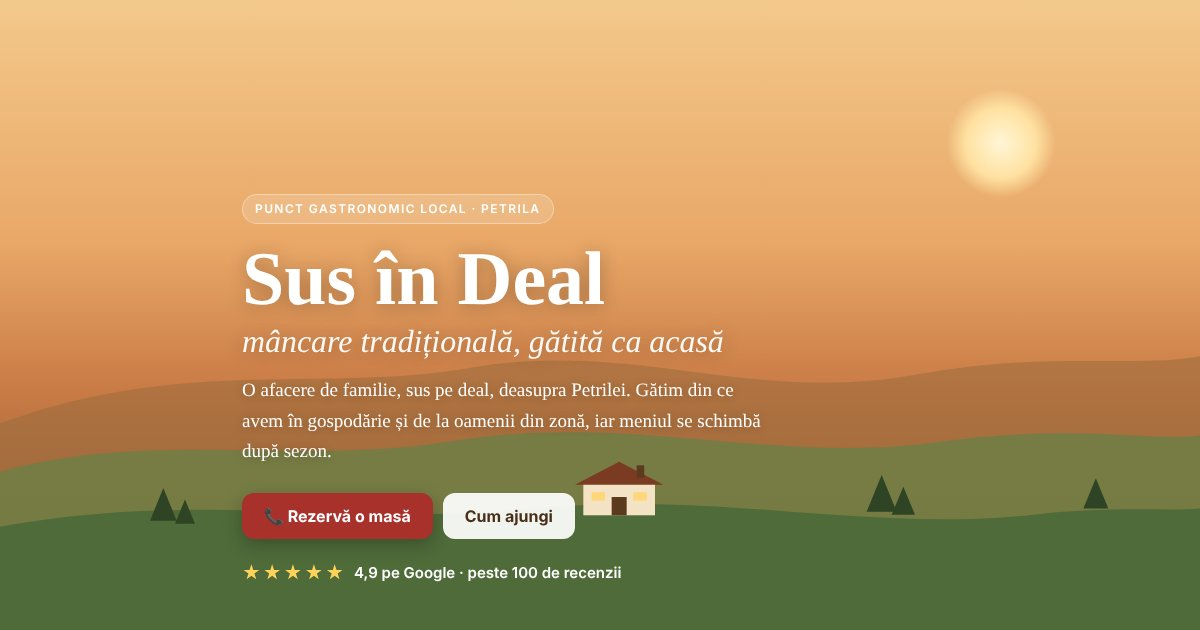
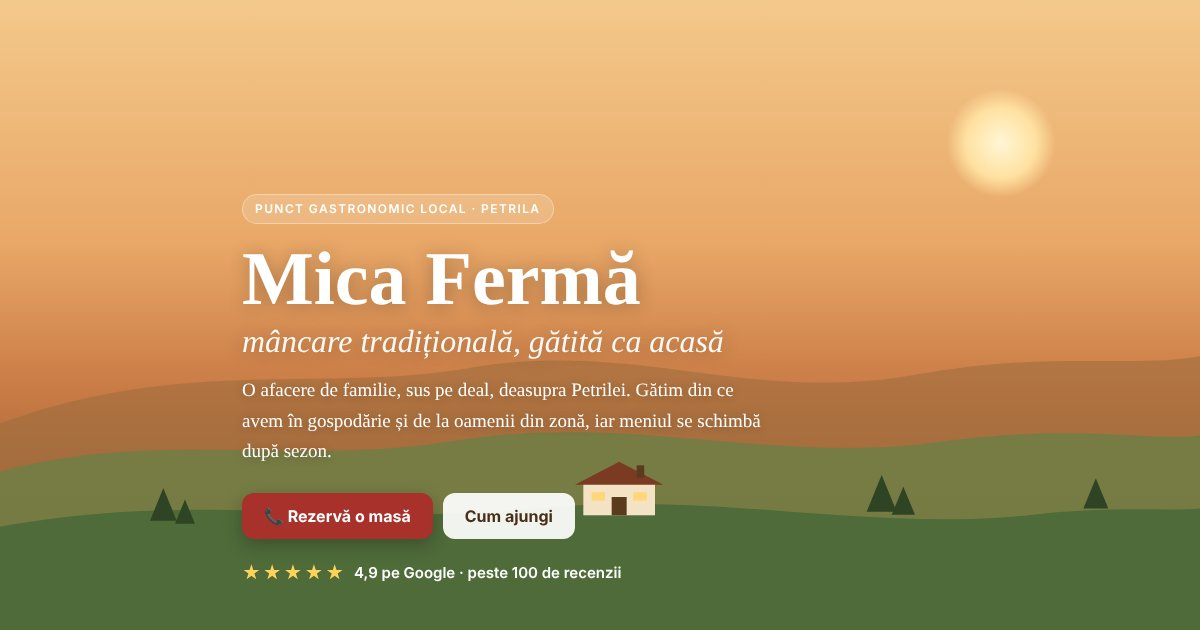
Rename farm mockup to Mica Ferma, add demo-mica-ferma path
Claude-Session: https://claude.ai/code/session_01LxuUGVkvJMbAL8TALUmA1L

Changed region(s): [[0.185, 0.3921, 0.555, 0.4825]]

diff --git a/demo-mica-ferma/index.html b/demo-mica-ferma/index.html
@@ -1,0 +1,275 @@
+<!DOCTYPE html>
+<html lang="ro">
+<head>
+<meta charset="UTF-8">
+<meta name="viewport" content="width=device-width, initial-scale=1">
+<title>Mica Fermă — Punct Gastronomic Local, Petrila</title>
+<meta name="theme-color" content="#5b3a1e">
+<meta name="robots" content="noindex, nofollow">
+<meta property="og:type" content="website">
+<meta property="og:title" content="Mica Fermă – Punct Gastronomic Local, Petrila">
+<meta property="og:description" content="Mâncare tradițională, gătită ca acasă. Machetă de site realizată de Andrei.">
+<meta property="og:url" content="https://falkyy.github.io/demo-mica-ferma/">
+<meta property="og:image" content="https://falkyy.github.io/demo-mica-ferma/preview.jpg">
+<meta property="og:image:width" content="1200">
+<meta property="og:image:height" content="630">
+<meta name="twitter:card" content="summary_large_image">
+<style>
+  :root{
+    --bark:#4a2f18; --wood:#7a4f2a; --cream:#f8f1e4; --paper:#fffaf1; --red:#a8322b;
+    --green:#4f6b3a; --ink:#2b1d10; --muted:#7d6a55; --line:#e6d8c1;
+  }
+  *{box-sizing:border-box;margin:0;padding:0}
+  html{scroll-behavior:smooth}
+  body{font-family:Georgia,"Times New Roman",serif;background:var(--cream);color:var(--ink);line-height:1.6}
+  .sans{font-family:system-ui,-apple-system,"Segoe UI",Roboto,sans-serif}
+  a{color:inherit}
+  .draft{background:#1f1f1f;color:#ffd77a;text-align:center;font:600 12px/1.4 system-ui,sans-serif;padding:7px 10px;letter-spacing:.3px}
+
+  /* hero */
+  .hero{position:relative;min-height:88vh;display:flex;flex-direction:column;justify-content:flex-end;
+        background:linear-gradient(180deg,#f3c98b 0%,#e9a868 38%,#c97b45 62%,#7a4f2a 100%);overflow:hidden;color:#fff}
+  .hero svg.hills{position:absolute;left:0;right:0;bottom:0;width:100%;height:58%}
+  .sun{position:absolute;top:14%;right:12%;width:110px;height:110px;border-radius:50%;
+       background:radial-gradient(circle,#fff6d6 0%,#ffe1a1 45%,rgba(255,225,161,0) 70%)}
+  .hero-inner{position:relative;z-index:2;padding:0 22px 46px;max-width:760px;margin:0 auto;width:100%}
+  .badge{display:inline-block;font:600 12px/1 system-ui,sans-serif;letter-spacing:1.4px;text-transform:uppercase;
+         background:rgba(255,255,255,.16);border:1px solid rgba(255,255,255,.35);padding:8px 12px;border-radius:30px;margin-bottom:16px}
+  .hero h1{font-size:clamp(42px,11vw,76px);line-height:1;font-weight:700;text-shadow:0 2px 18px rgba(0,0,0,.25)}
+  .hero h1 em{display:block;font-style:italic;font-weight:400;font-size:.42em;margin-top:10px;opacity:.95}
+  .hero p.lead{font-size:19px;margin:18px 0 26px;max-width:520px;text-shadow:0 1px 10px rgba(0,0,0,.25)}
+  .cta{display:flex;gap:10px;flex-wrap:wrap}
+  .btn{font:700 16px/1 system-ui,sans-serif;text-decoration:none;padding:15px 22px;border-radius:12px;display:inline-flex;align-items:center;gap:8px}
+  .btn.primary{background:var(--red);color:#fff;box-shadow:0 6px 18px rgba(0,0,0,.25)}
+  .btn.ghost{background:rgba(255,255,255,.92);color:var(--bark)}
+  .rating{margin-top:22px;font:600 15px/1.3 system-ui,sans-serif;display:flex;align-items:center;gap:8px}
+  .stars{color:#ffd35a;letter-spacing:2px;font-size:18px}
+
+  /* info strip */
+  .strip{background:var(--bark);color:var(--cream)}
+  .strip .wrap{display:grid;grid-template-columns:repeat(3,1fr);gap:0}
+  .strip .it{padding:18px 14px;text-align:center;border-right:1px solid rgba(255,255,255,.12)}
+  .strip .it:last-child{border-right:0}
+  .strip .k{font:600 11px/1 system-ui,sans-serif;letter-spacing:1.2px;text-transform:uppercase;opacity:.7;margin-bottom:6px}
+  .strip .v{font-size:16px}
+  @media(max-width:560px){.strip .wrap{grid-template-columns:1fr}.strip .it{border-right:0;border-bottom:1px solid rgba(255,255,255,.12)}}
+
+  .wrap{max-width:860px;margin:0 auto;padding:0 22px}
+  section{padding:64px 0}
+  h2{font-size:clamp(30px,7vw,42px);color:var(--bark);line-height:1.1;margin-bottom:10px}
+  .eyebrow{font:700 12px/1 system-ui,sans-serif;letter-spacing:1.6px;text-transform:uppercase;color:var(--red);margin-bottom:12px}
+  .sub{color:var(--muted);font-size:18px;max-width:600px}
+
+  /* about */
+  .about-grid{display:grid;grid-template-columns:1.2fr 1fr;gap:34px;align-items:center;margin-top:24px}
+  .about-grid p{font-size:18px;margin-bottom:14px}
+  .photo{aspect-ratio:4/5;border-radius:18px;background:
+        radial-gradient(circle at 30% 30%,#d9a066 0,#b8763f 40%,#6e4322 100%);position:relative;overflow:hidden;
+        display:flex;align-items:flex-end;padding:16px;color:#fff;font:600 13px/1.4 system-ui,sans-serif}
+  .photo::before{content:"";position:absolute;inset:0;background:repeating-linear-gradient(90deg,rgba(0,0,0,.06) 0 18px,transparent 18px 36px)}
+  .photo span{position:relative;background:rgba(0,0,0,.35);padding:6px 10px;border-radius:8px}
+  @media(max-width:700px){.about-grid{grid-template-columns:1fr}.photo{aspect-ratio:16/10}}
+
+  /* menu */
+  .menu{background:var(--paper);border-top:1px solid var(--line);border-bottom:1px solid var(--line)}
+  .menu-card{margin-top:28px;background:#fff;border:1px solid var(--line);border-radius:20px;padding:30px 24px;
+             box-shadow:0 10px 30px rgba(74,47,24,.08);position:relative}
+  .menu-card::before{content:"";position:absolute;inset:8px;border:1px dashed var(--line);border-radius:14px;pointer-events:none}
+  .course{margin-bottom:26px}
+  .course:last-child{margin-bottom:0}
+  .course h3{font-size:14px;font-family:system-ui,sans-serif;letter-spacing:1.4px;text-transform:uppercase;color:var(--green);
+             margin-bottom:12px;display:flex;align-items:center;gap:10px}
+  .course h3::after{content:"";flex:1;height:1px;background:var(--line)}
+  .dish{display:flex;justify-content:space-between;gap:12px;padding:8px 0;font-size:19px}
+  .dish small{display:block;color:var(--muted);font-size:14px;font-family:system-ui,sans-serif}
+  .dish .p{white-space:nowrap;font-weight:700;color:var(--bark)}
+  .note{margin-top:18px;font:14px/1.5 system-ui,sans-serif;color:var(--muted);text-align:center}
+
+  /* why */
+  .why{display:grid;grid-template-columns:repeat(3,1fr);gap:16px;margin-top:28px}
+  .why .c{background:#fff;border:1px solid var(--line);border-radius:16px;padding:22px}
+  .why .ic{font-size:30px;margin-bottom:8px}
+  .why h4{font-size:20px;color:var(--bark);margin-bottom:6px}
+  .why p{font:15px/1.55 system-ui,sans-serif;color:var(--muted)}
+  @media(max-width:700px){.why{grid-template-columns:1fr}}
+
+  /* reviews */
+  .reviews{background:var(--green);color:#fff;text-align:center}
+  .reviews h2{color:#fff}
+  .big-rating{font-size:84px;line-height:1;font-weight:700;margin:16px 0 4px}
+  .reviews .stars{font-size:28px}
+  .reviews p{font:16px/1.5 system-ui,sans-serif;opacity:.9;margin-top:10px}
+  .reviews .btn{margin-top:22px;background:#fff;color:var(--green)}
+
+  /* visit */
+  .visit-grid{display:grid;grid-template-columns:1fr 1fr;gap:20px;margin-top:26px}
+  .box{background:#fff;border:1px solid var(--line);border-radius:18px;padding:24px}
+  .box h3{font-size:22px;color:var(--bark);margin-bottom:12px}
+  table.hours{width:100%;border-collapse:collapse;font:16px/1.4 system-ui,sans-serif}
+  table.hours td{padding:7px 0;border-bottom:1px solid var(--line)}
+  table.hours td:last-child{text-align:right;font-weight:600}
+  table.hours tr.off td:last-child{color:var(--red)}
+  .addr{font:16px/1.6 system-ui,sans-serif;margin-bottom:16px}
+  .map{display:block;aspect-ratio:16/10;border-radius:14px;text-decoration:none;position:relative;overflow:hidden;
+       background:linear-gradient(135deg,#dfe8cf,#c5d6a8);border:1px solid var(--line)}
+  .map::before{content:"";position:absolute;inset:0;background:
+     repeating-linear-gradient(35deg,transparent 0 40px,rgba(255,255,255,.55) 40px 46px),
+     repeating-linear-gradient(-55deg,transparent 0 70px,rgba(255,255,255,.4) 70px 74px)}
+  .map .pin{position:absolute;left:50%;top:44%;transform:translate(-50%,-100%);font-size:38px}
+  .map .lbl{position:absolute;left:50%;bottom:14px;transform:translateX(-50%);background:var(--bark);color:#fff;
+            font:700 14px/1 system-ui,sans-serif;padding:11px 16px;border-radius:30px;white-space:nowrap}
+  .cash{margin-top:14px;background:#fff3d6;border:1px solid #f0d58f;border-radius:12px;padding:12px 14px;font:15px/1.45 system-ui,sans-serif}
+  @media(max-width:700px){.visit-grid{grid-template-columns:1fr}}
+
+  footer{background:var(--bark);color:var(--cream);text-align:center;padding:40px 22px 90px;font:14px/1.6 system-ui,sans-serif}
+  footer .name{font:700 24px/1.2 Georgia,serif;margin-bottom:6px}
+  footer a{color:#ffd77a;text-decoration:none}
+
+  .callbar{position:fixed;left:12px;right:12px;bottom:12px;display:none;z-index:20}
+  .callbar a{display:block;text-align:center;background:var(--red);color:#fff;text-decoration:none;
+             font:700 17px/1 system-ui,sans-serif;padding:17px;border-radius:14px;box-shadow:0 8px 24px rgba(0,0,0,.3)}
+  @media(max-width:700px){.callbar{display:block}}
+</style>
+</head>
+<body>
+
+<div class="draft">MACHETĂ DEMONSTRATIVĂ · meniul, prețurile și pozele sunt exemple și se înlocuiesc cu ale voastre</div>
+
+<header class="hero">
+  <div class="sun"></div>
+  <svg class="hills" viewBox="0 0 1440 600" preserveAspectRatio="none" aria-hidden="true">
+    <path d="M0 260 C 220 150 380 210 560 170 C 760 120 900 230 1100 180 C 1260 140 1360 170 1440 150 L1440 600 L0 600Z" fill="#9b6b3e" opacity=".55"/>
+    <path d="M0 340 C 180 270 360 330 540 290 C 760 240 930 330 1130 290 C 1290 260 1380 290 1440 280 L1440 600 L0 600Z" fill="#6f7f45" opacity=".85"/>
+    <path d="M0 430 C 240 370 420 430 640 400 C 860 370 1040 440 1240 410 C 1340 395 1400 405 1440 400 L1440 600 L0 600Z" fill="#4f6b3a"/>
+    <g fill="#2f4424">
+      <path d="M1040 405 l18 -60 l18 60z"/><path d="M1070 410 l14 -46 l14 46z"/><path d="M180 420 l16 -54 l16 54z"/>
+      <path d="M210 425 l12 -40 l12 40z"/><path d="M1300 400 l15 -50 l15 50z"/>
+    </g>
+    <g transform="translate(700 335)">
+      <rect x="0" y="24" width="86" height="52" fill="#f3e2c4"/>
+      <path d="M-10 26 L43 -12 L96 26Z" fill="#7a3b22"/>
+      <rect x="34" y="46" width="18" height="30" fill="#5b3a1e"/>
+      <rect x="10" y="38" width="16" height="14" fill="#ffd77a"/><rect x="60" y="38" width="16" height="14" fill="#ffd77a"/>
+      <rect x="64" y="-6" width="9" height="20" fill="#5b3a1e"/>
+    </g>
+  </svg>
+
+  <div class="hero-inner">
+    <span class="badge">Punct Gastronomic Local · Petrila</span>
+    <h1>Mica Fermă<em>mâncare tradițională, gătită ca acasă</em></h1>
+    <p class="lead">O afacere de familie, sus pe deal, deasupra Petrilei. Gătim din ce avem în gospodărie și de la oamenii din zonă, iar meniul se schimbă după sezon.</p>
+    <div class="cta">
+      <a class="btn primary" href="tel:+40721963892">📞 Rezervă o masă</a>
+      <a class="btn ghost" href="#vizita">Cum ajungi</a>
+    </div>
+    <div class="rating"><span class="stars">★★★★★</span> 4,9 pe Google · peste 100 de recenzii</div>
+  </div>
+</header>
+
+<div class="strip">
+  <div class="wrap">
+    <div class="it"><div class="k">Program</div><div class="v">Marți – Duminică</div></div>
+    <div class="it"><div class="k">Rezervări</div><div class="v"><a href="tel:+40721963892">0721 963 892</a></div></div>
+    <div class="it"><div class="k">Plata</div><div class="v">Doar numerar</div></div>
+  </div>
+</div>
+
+<section>
+  <div class="wrap">
+    <div class="eyebrow">Despre noi</div>
+    <h2>La noi mănânci ca la bunica</h2>
+    <div class="about-grid">
+      <div>
+        <p>Suntem o familie din Petrila și am deschis porțile casei pentru cei care vor să guste mâncarea adevărată a Văii Jiului, nu cea de restaurant.</p>
+        <p>Nu avem meniu lung. Gătim puține feluri în fiecare zi, dar le gătim bine, din ingrediente proaspete. Vii la noi ca în vizită: te așezi, te relaxezi și pleci sătul.</p>
+        <p>Copiii sunt bineveniți, iar locul e liniștit, cu priveliște spre munte.</p>
+      </div>
+      <div class="photo"><span>Aici vine o poză cu curtea sau cu masa voastră</span></div>
+    </div>
+  </div>
+</section>
+
+<section class="menu">
+  <div class="wrap">
+    <div class="eyebrow">Meniul zilei</div>
+    <h2>Ce găsești azi pe masă</h2>
+    <p class="sub">Ca la orice punct gastronomic local, gătim câteva feluri pe zi, după sezon și după ce avem proaspăt.</p>
+
+    <div class="menu-card">
+      <div class="course">
+        <h3>Ciorbe</h3>
+        <div class="dish"><div>Ciorbă de fasole cu afumătură<small>cu ceapă roșie și pâine de casă</small></div><div class="p">— lei</div></div>
+        <div class="dish"><div>Ciorbă de perișoare<small>acrită cu borș</small></div><div class="p">— lei</div></div>
+      </div>
+      <div class="course">
+        <h3>Feluri principale</h3>
+        <div class="dish"><div>Tochitură cu mămăligă<small>cu ou ochi și brânză de burduf</small></div><div class="p">— lei</div></div>
+        <div class="dish"><div>Sarmale în foi de varză<small>cu smântână și ardei iute</small></div><div class="p">— lei</div></div>
+      </div>
+      <div class="course">
+        <h3>Desert</h3>
+        <div class="dish"><div>Plăcintă de casă<small>cu mere sau brânză, după zi</small></div><div class="p">— lei</div></div>
+      </div>
+      <p class="note">Felurile de mai sus sunt doar un exemplu. Meniul real îl puteți actualiza oricând.</p>
+    </div>
+  </div>
+</section>
+
+<section>
+  <div class="wrap">
+    <div class="eyebrow">De ce să urci până la noi</div>
+    <h2>Merită drumul</h2>
+    <div class="why">
+      <div class="c"><div class="ic">🍲</div><h4>Gătit de casă</h4><p>Rețete de familie, porții mari, fără grabă.</p></div>
+      <div class="c"><div class="ic">⛰</div><h4>Liniște și priveliște</h4><p>Sus pe deal, departe de zgomotul orașului.</p></div>
+      <div class="c"><div class="ic">👨👩👧</div><h4>Ca între ai tăi</h4><p>Vii ca musafir, nu ca client. Și cu copiii.</p></div>
+    </div>
+  </div>
+</section>
+
+<section class="reviews">
+  <div class="wrap">
+    <div class="eyebrow" style="color:#ffd77a">Ce spun oaspeții</div>
+    <h2>Iubiți de localnici și de turiști</h2>
+    <div class="big-rating">4,9</div>
+    <div class="stars">★★★★★</div>
+    <p>Nota de pe Google, din peste 100 de recenzii, multe de la turiști din străinătate.</p>
+    <a class="btn" href="https://www.google.com/maps/search/?api=1&query=Punctul+gastronomic+local+sus+%C3%AEn+deal+Petrila" target="_blank" rel="noopener">Citește recenziile pe Google</a>
+  </div>
+</section>
+
+<section id="vizita">
+  <div class="wrap">
+    <div class="eyebrow">Vizită</div>
+    <h2>Te așteptăm</h2>
+    <div class="visit-grid">
+      <div class="box">
+        <h3>Program</h3>
+        <table class="hours">
+          <tr class="off"><td>Luni</td><td>Închis</td></tr>
+          <tr><td>Marți – Vineri</td><td>14:00 – 20:00</td></tr>
+          <tr><td>Sâmbătă – Duminică</td><td>12:00 – 20:00</td></tr>
+        </table>
+        <div class="cash">💵 <b>Plata se face doar numerar.</b> Vă rugăm să aveți bani cash la voi.</div>
+      </div>
+      <div class="box">
+        <h3>Unde ne găsești</h3>
+        <div class="addr">Strada Taia 101, Petrila<br>Județul Hunedoara</div>
+        <a class="map" href="https://www.google.com/maps/dir/?api=1&destination=45.4545415,23.4244036" target="_blank" rel="noopener">
+          <span class="pin">📍</span><span class="lbl">Deschide traseul în Google Maps</span>
+        </a>
+      </div>
+    </div>
+  </div>
+</section>
+
+<footer>
+  <div class="name">Mica Fermă</div>
+  Punct Gastronomic Local · Strada Taia 101, Petrila<br>
+  Rezervări: <a href="tel:+40721963892">0721 963 892</a>
+  <p style="margin-top:18px;opacity:.6">Machetă realizată de Andrei · OddCllaw</p>
+</footer>
+
+<div class="callbar"><a href="tel:+40721963892">📞 Sună pentru rezervare</a></div>
+</body>
+</html>

diff --git a/demo-sus-in-deal/index.html b/demo-sus-in-deal/index.html
@@ -3,14 +3,14 @@
 <head>
 <meta charset="UTF-8">
 <meta name="viewport" content="width=device-width, initial-scale=1">
-<title>Sus în Deal — Punct Gastronomic Local, Petrila</title>
+<title>Mica Fermă — Punct Gastronomic Local, Petrila</title>
 <meta name="theme-color" content="#5b3a1e">
 <meta name="robots" content="noindex, nofollow">
 <meta property="og:type" content="website">
-<meta property="og:title" content="Sus în Deal – Punct Gastronomic Local, Petrila">
+<meta property="og:title" content="Mica Fermă – Punct Gastronomic Local, Petrila">
 <meta property="og:description" content="Mâncare tradițională, gătită ca acasă. Machetă de site realizată de Andrei.">
-<meta property="og:url" content="https://falkyy.github.io/demo-sus-in-deal/">
-<meta property="og:image" content="https://falkyy.github.io/demo-sus-in-deal/preview.jpg">
+<meta property="og:url" content="https://falkyy.github.io/demo-mica-ferma/">
+<meta property="og:image" content="https://falkyy.github.io/demo-mica-ferma/preview.jpg">
 <meta property="og:image:width" content="1200">
 <meta property="og:image:height" content="630">
 <meta name="twitter:card" content="summary_large_image">
@@ -156,7 +156,7 @@
 
   <div class="hero-inner">
     <span class="badge">Punct Gastronomic Local · Petrila</span>
-    <h1>Sus în Deal<em>mâncare tradițională, gătită ca acasă</em></h1>
+    <h1>Mica Fermă<em>mâncare tradițională, gătită ca acasă</em></h1>
     <p class="lead">O afacere de familie, sus pe deal, deasupra Petrilei. Gătim din ce avem în gospodărie și de la oamenii din zonă, iar meniul se schimbă după sezon.</p>
     <div class="cta">
       <a class="btn primary" href="tel:+40721963892">📞 Rezervă o masă</a>
@@ -264,7 +264,7 @@
 </section>
 
 <footer>
-  <div class="name">Sus în Deal</div>
+  <div class="name">Mica Fermă</div>
   Punct Gastronomic Local · Strada Taia 101, Petrila<br>
   Rezervări: <a href="tel:+40721963892">0721 963 892</a>
   <p style="margin-top:18px;opacity:.6">Machetă realizată de Andrei · OddCllaw</p>
